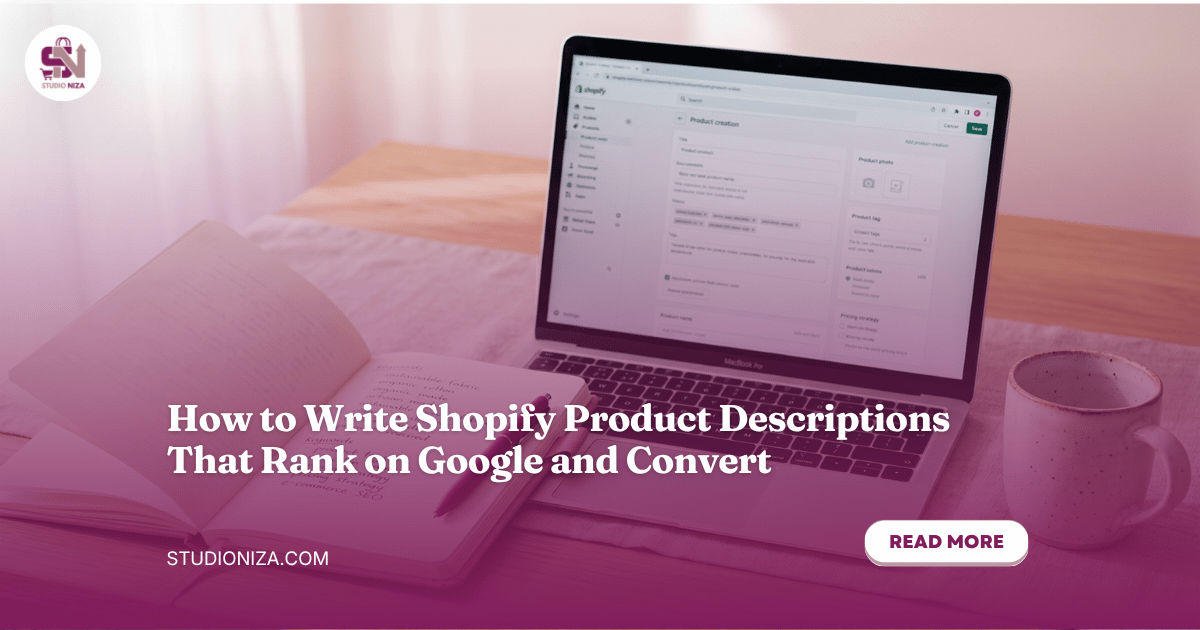
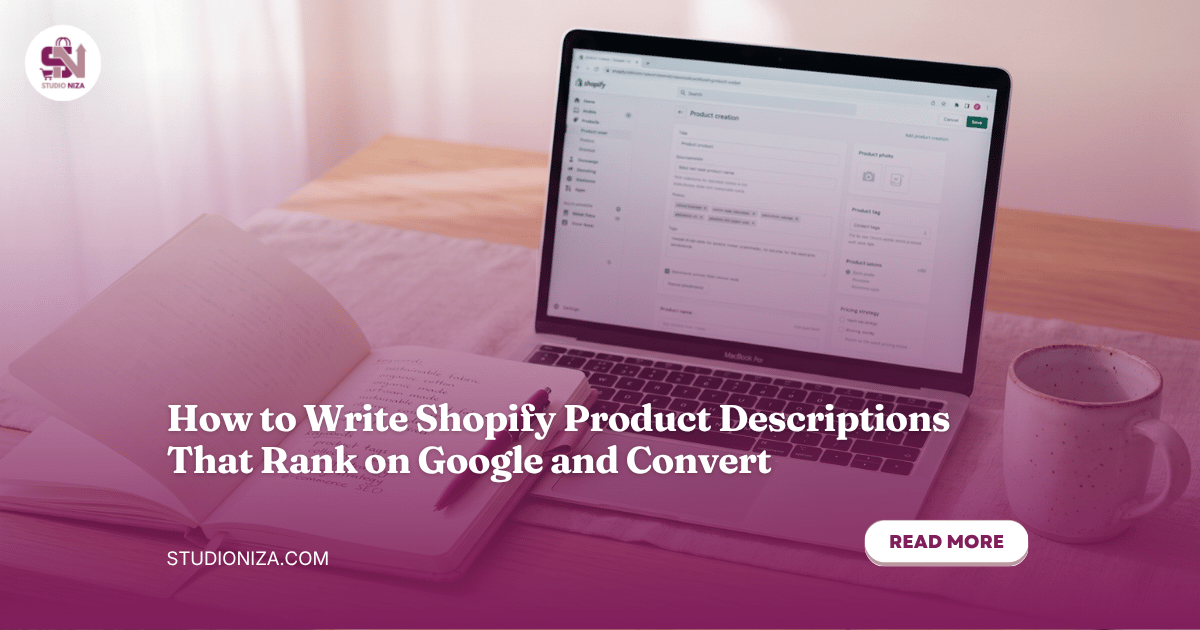
fix Journal Page: remove comment in json

diff --git a/journal/index.html b/journal/index.html
@@ -575,8 +575,6 @@ footer {
     "@id": "https://studioniza.com/#organization"
   },
   "blogPost": [
-
-    <!-- ADD NEW BLOGS HERE (BLOCK 1) -->
     {
       "@type": "BlogPosting",
       "headline": "How to Write Shopify Product Descriptions That Rank on Google and Convert",